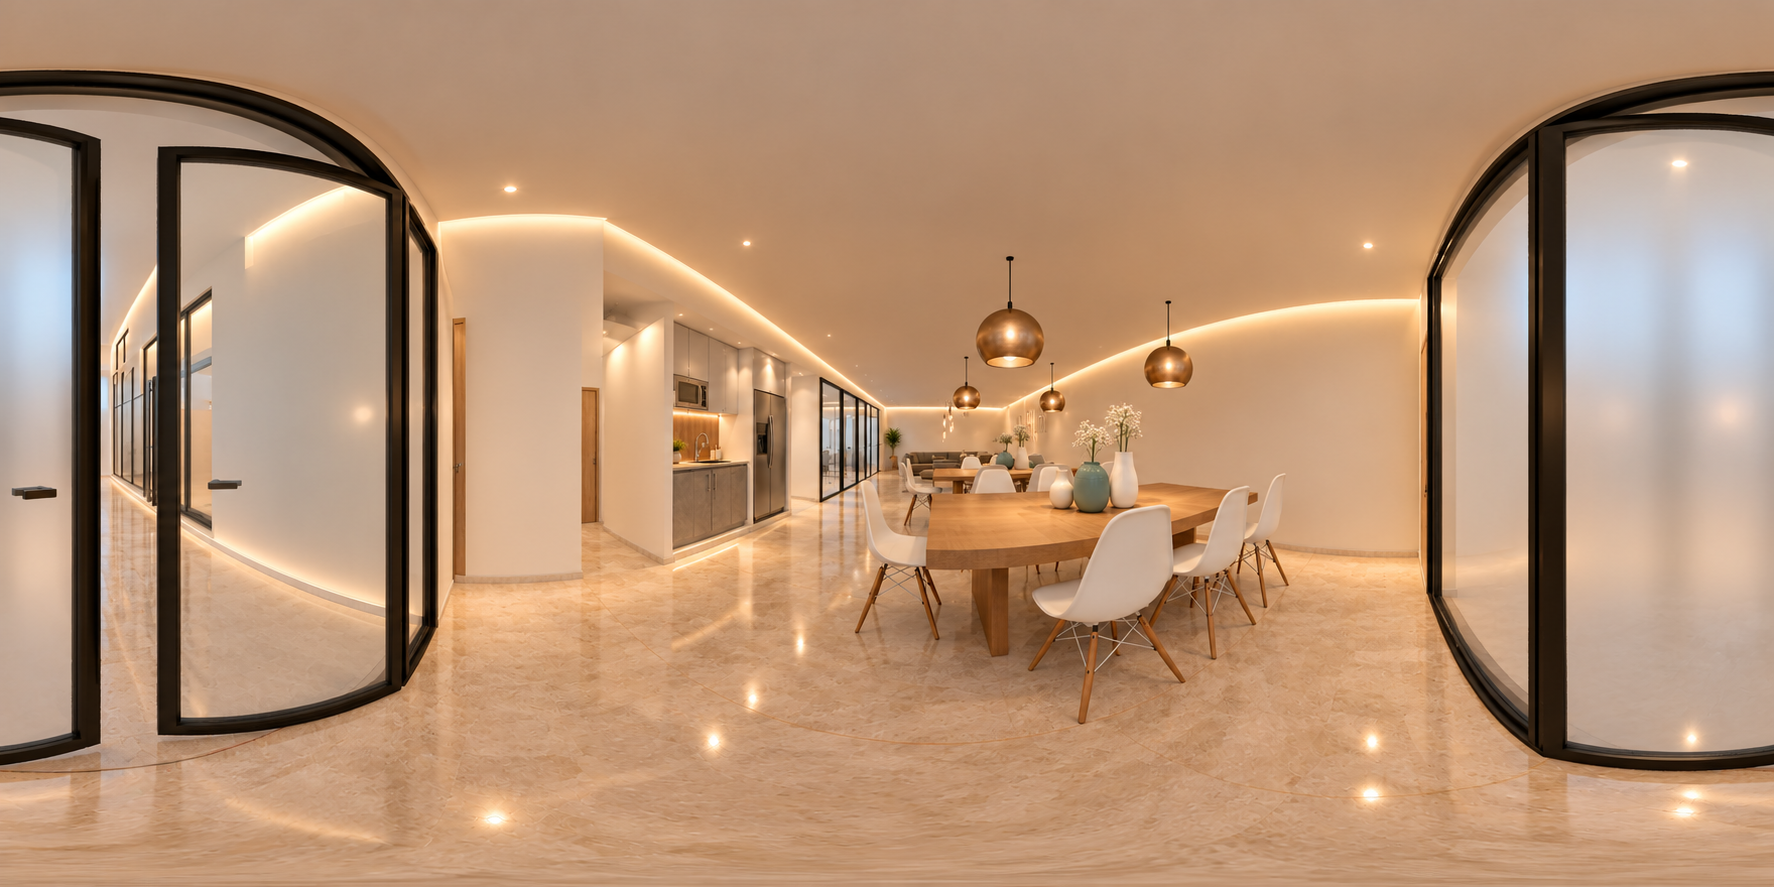
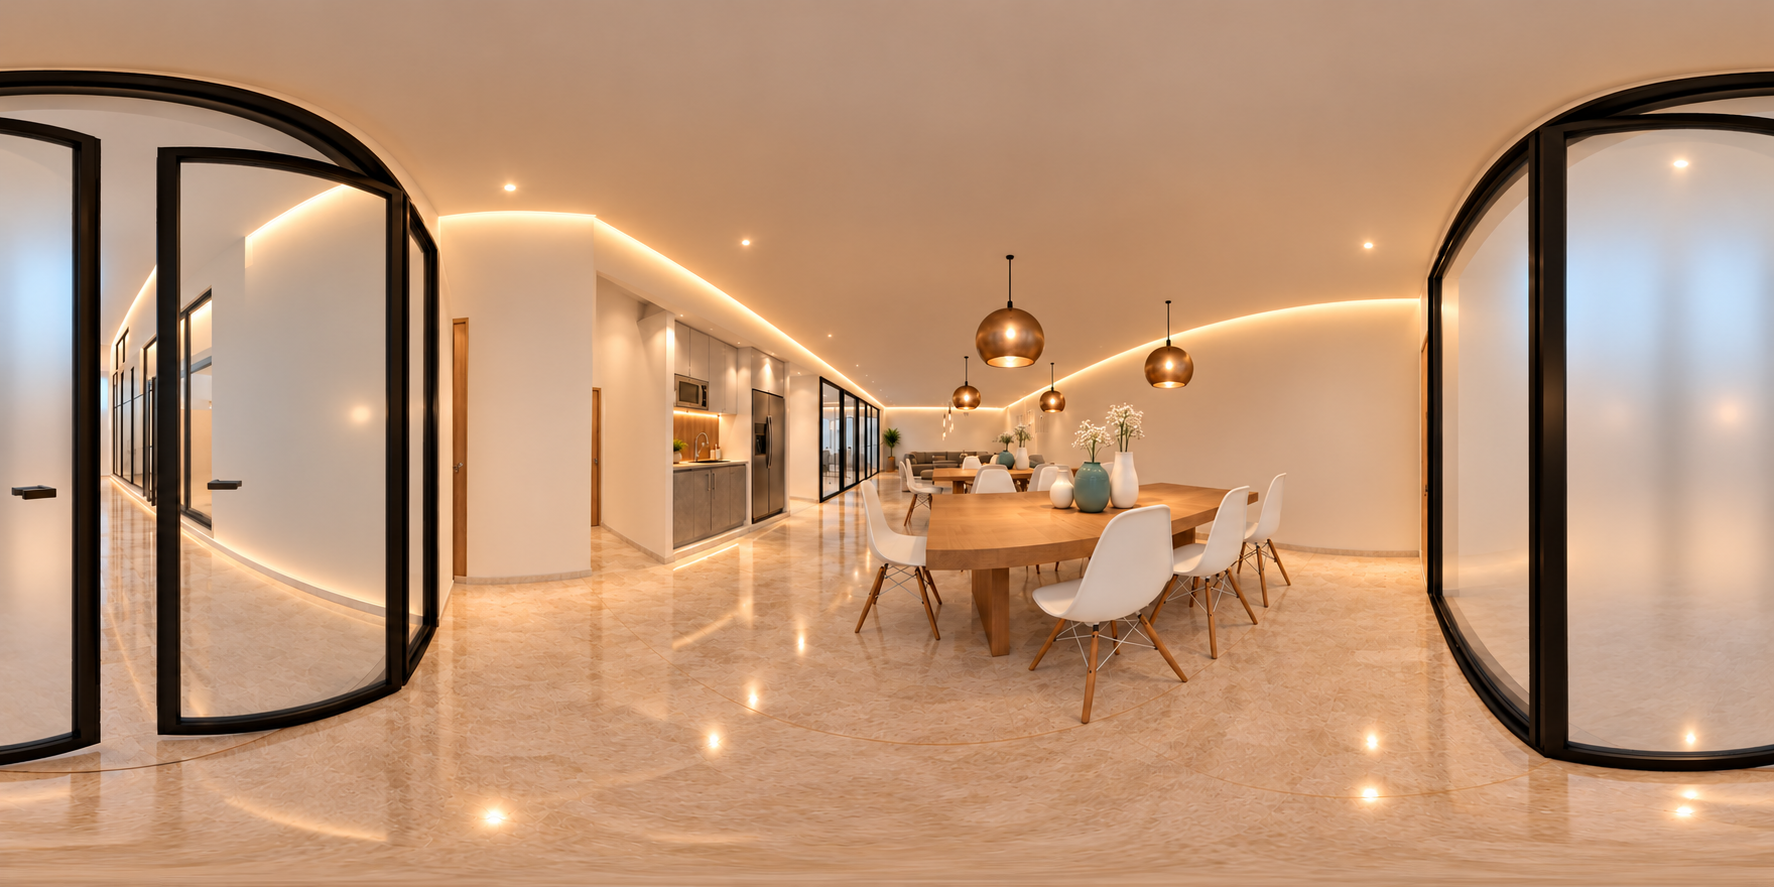
correction

diff --git a/viewer.html b/viewer.html
@@ -1,6 +1,6 @@
 <!doctype html><html lang="fr"><head><meta charset="utf-8"><meta name="viewport" content="width=device-width,initial-scale=1"><title>Parcours — Hatem Ellouze</title><style>
 *{box-sizing:border-box}body{margin:0;background:#151612;color:#fff;font:14px system-ui,sans-serif}button{font:inherit;color:inherit;cursor:pointer}button:focus-visible,canvas:focus-visible{outline:3px solid #e8c89d;outline-offset:4px}#tour{position:relative;height:100dvh;min-height:420px;overflow:hidden}canvas{display:block;width:100%;height:100%;touch-action:none;cursor:grab;transition:opacity .22s}canvas:active{cursor:grabbing}header{position:absolute;inset:0 0 auto;padding:26px 30px 65px;background:linear-gradient(#0009,transparent);pointer-events:none;display:flex;justify-content:space-between;gap:20px}.eyebrow{font-size:10px;letter-spacing:3px;text-transform:uppercase;opacity:.85}h1{font:normal clamp(23px,3vw,37px) Georgia,serif;margin:9px 0 5px}#level{font-size:12px;opacity:.8}#count{font-size:13px;letter-spacing:2px;padding-top:7px}.glass{border:1px solid #ffffff30;background:#22241ee6;backdrop-filter:blur(15px);border-radius:24px;padding:11px 17px}.glass:hover{background:#454336}#toolbar{position:absolute;bottom:22px;left:15px;right:15px;display:flex;justify-content:center;flex-wrap:wrap;gap:7px}#hint{position:absolute;bottom:82px;left:15px;right:15px;text-align:center;font-size:12px;text-shadow:0 1px 6px #000;pointer-events:none}#status{position:absolute;left:50%;top:50%;transform:translate(-50%,-50%);background:#20211cdd;padding:18px 24px;border-radius:14px;z-index:9;text-align:center}#spots{position:absolute;inset:0;pointer-events:none}.spot{position:absolute;transform:translate(-50%,-50%);border:0;background:transparent;pointer-events:auto;display:flex;flex-direction:column;align-items:center;gap:6px;white-space:nowrap;padding:8px;filter:drop-shadow(0 2px 5px #0009)}.spot[hidden]{display:none}.spot b{display:grid;place-items:center;width:44px;height:44px;border-radius:50%;border:2px solid #fff;background:#fcf4dfed;color:#443a28;font-size:23px;box-shadow:0 0 0 7px #ffffff25;transition:transform .15s}.spot:hover b{transform:scale(1.13);background:#fff}.spot span{background:#24271de6;border:1px solid #ffffff30;padding:6px 10px;border-radius:16px;font-size:12px}.drawer{position:absolute;inset:0;background:#141710f5;z-index:20;padding:25px;overflow:auto}.drawer[hidden]{display:none}.drawer-top{display:flex;align-items:center;justify-content:space-between;gap:20px;margin-bottom:24px}.drawer h2{font:normal 30px Georgia;margin:0}.grid{display:grid;grid-template-columns:repeat(auto-fit,minmax(230px,1fr));gap:16px;max-width:1300px;margin:auto}.card{text-align:left;border:1px solid #ffffff22;background:#24271f;border-radius:14px;padding:0;overflow:hidden}.card img{display:block;width:100%;height:145px;object-fit:cover}.card .caption{display:block;padding:14px}.card strong{display:block;font-weight:500;font-size:16px}.card small{display:block;margin-top:5px;opacity:.65}.card[aria-current=true]{border-color:#e1bd84}.gallery-grid img{height:300px;object-fit:contain;background:#ecebe4}.gallery-grid{grid-template-columns:repeat(auto-fit,minmax(280px,1fr))}#lightbox{z-index:30;display:flex;flex-direction:column;align-items:center;justify-content:center;gap:12px}#lightbox[hidden]{display:none}#large{max-width:100%;max-height:82vh;object-fit:contain}#closeImage{position:absolute;right:20px;top:20px}#helpText{line-height:1.8;max-width:620px;margin:50px auto;font-size:17px}#editorInfo{display:none;position:absolute;top:135px;left:20px;z-index:12;background:#222e;padding:12px;border-radius:12px;max-width:300px}#editorInfo input{width:100%;padding:8px;margin-top:6px}.small{font-size:12px;opacity:.7}@media(max-width:600px){header{padding:22px 18px 60px}#toolbar{bottom:12px;gap:5px}.glass{padding:10px 12px;font-size:12px}#hint{bottom:108px;font-size:11px}#count{display:none}.spot span{max-width:135px;white-space:normal}.drawer{padding:18px}.grid{grid-template-columns:1fr 1fr;gap:10px}.card img{height:105px}.card .caption{padding:10px}.card strong{font-size:13px}.gallery-grid{grid-template-columns:1fr}.gallery-grid img{height:270px}}
-</style></head><body><main id="tour"><canvas id="view" tabindex="0" aria-label="Vue panoramique : faites glisser pour regarder autour de vous. Flèches du clavier pour tourner."></canvas><div id="spots"></div><header><div><div class="eyebrow">Hatem Ellouze · Architecture</div><h1 id="sceneTitle"></h1><div id="level"></div></div><div id="count"></div></header><div id="status" role="status" aria-live="polite">Préparation de la visite…</div><div id="hint">Faites glisser pour regarder · Cliquez sur les repères pour avancer</div><nav id="toolbar" aria-label="Commandes de visite"><button class="glass" id="back" aria-label="Revenir au point précédent">↶ Retour</button><button class="glass" id="spaces">Espaces</button><button class="glass" id="gallery">Axonométries</button><button class="glass" id="home">Recentrer</button><button class="glass" id="minus" aria-label="Dézoomer">−</button><button class="glass" id="plus" aria-label="Zoomer">+</button><button class="glass" id="full">Plein écran</button><button class="glass" id="help" aria-label="Aide">?</button></nav><div id="editorInfo">Placez la destination au centre de l’image, puis copiez ces coordonnées dans l’administration.<input id="coords" readonly aria-label="Coordonnées du centre de la vue"></div><section id="spacesPanel" class="drawer" hidden><div class="drawer-top"><h2>Les espaces</h2><button class="glass" data-close>Revenir à la visite ×</button></div><div id="sceneGrid" class="grid"></div></section><section id="galleryPanel" class="drawer" hidden><div class="drawer-top"><h2>Le projet en axonométrie</h2><button class="glass" data-close>Revenir à la visite ×</button></div><div id="galleryGrid" class="grid gallery-grid"></div></section><section id="helpPanel" class="drawer" hidden><div class="drawer-top"><h2>Explorer le projet</h2><button class="glass" data-close>Fermer ×</button></div><div id="helpText"><p>Faites glisser l’image avec la souris ou le doigt pour regarder à 360°. La molette et les boutons + / − permettent de zoomer.</p><p>Cliquez sur les repères ronds dans l’espace pour rejoindre le point de vue indiqué. Chaque point ouvre un panorama complet.</p><p>« Espaces » donne accès à tous les lieux. « Retour » vous ramène au point précédent. Les axonométries s’ouvrent en images, sans interrompre votre parcours.</p><p class="small">Au clavier : flèches pour regarder, Tab et Entrée pour activer les commandes, Échap pour fermer les panneaux.</p></div></section><section id="lightbox" class="drawer" hidden><button id="closeImage" class="glass">Fermer ×</button><img id="large" alt=""><div id="largeTitle"></div></section></main><script>
+#detailPanel{display:flex;flex-direction:column;gap:16px}#detailPanel[hidden]{display:none}#detailScroll{flex:1;min-height:0;overflow:auto;background:#10120e;text-align:center}#detailImage{max-width:100%;max-height:100%;object-fit:contain;display:block;margin:auto}#detailImage.native{max-width:none;max-height:none}.detailTools{display:flex;flex-wrap:wrap;gap:8px;align-items:center;justify-content:space-between}</style></head><body><main id="tour"><canvas id="view" tabindex="0" aria-label="Vue panoramique : faites glisser pour regarder autour de vous. Flèches du clavier pour tourner."></canvas><div id="spots"></div><header><div><div class="eyebrow">Hatem Ellouze · Architecture</div><h1 id="sceneTitle"></h1><div id="level"></div></div><div id="count"></div></header><div id="status" role="status" aria-live="polite">Préparation de la visite…</div><div id="hint">Faites glisser pour regarder · Cliquez sur les repères pour avancer</div><nav id="toolbar" aria-label="Commandes de visite"><button class="glass" id="back" aria-label="Revenir au point précédent">↶ Retour</button><button class="glass" id="spaces">Espaces</button><button class="glass" id="gallery">Axonométries</button><button class="glass" id="detail">Rendu détaillé</button><button class="glass" id="home">Recentrer</button><button class="glass" id="minus" aria-label="Dézoomer">−</button><button class="glass" id="plus" aria-label="Zoomer">+</button><button class="glass" id="full">Plein écran</button><button class="glass" id="help" aria-label="Aide">?</button></nav><div id="editorInfo">Placez la destination au centre de l’image, puis copiez ces coordonnées dans l’administration.<input id="coords" readonly aria-label="Coordonnées du centre de la vue"></div><section id="spacesPanel" class="drawer" hidden><div class="drawer-top"><h2>Les espaces</h2><button class="glass" data-close>Revenir à la visite ×</button></div><div id="sceneGrid" class="grid"></div></section><section id="galleryPanel" class="drawer" hidden><div class="drawer-top"><h2>Le projet en axonométrie</h2><button class="glass" data-close>Revenir à la visite ×</button></div><div id="galleryGrid" class="grid gallery-grid"></div></section><section id="helpPanel" class="drawer" hidden><div class="drawer-top"><h2>Explorer le projet</h2><button class="glass" data-close>Fermer ×</button></div><div id="helpText"><p>Faites glisser l’image avec la souris ou le doigt pour regarder à 360°. La molette et les boutons + / − permettent de zoomer.</p><p>Cliquez sur les repères ronds dans l’espace pour rejoindre le point de vue indiqué. Chaque point ouvre un panorama complet.</p><p>« Espaces » donne accès à tous les lieux. « Retour » vous ramène au point précédent. Les axonométries s’ouvrent en images, sans interrompre votre parcours.</p><p class="small">Au clavier : flèches pour regarder, Tab et Entrée pour activer les commandes, Échap pour fermer les panneaux.</p></div></section><section id="lightbox" class="drawer" hidden><button id="closeImage" class="glass">Fermer ×</button><img id="large" alt=""><div id="largeTitle"></div></section><section id="detailPanel" class="drawer" hidden><div class="detailTools"><div><h2 id="detailTitle">Rendu détaillé</h2><p class="small">Vue fixe · référence fournie</p></div><button id="nativeSize" class="glass">Taille réelle</button><button class="glass" data-close>Revenir au panorama ×</button></div><div id="detailScroll"><img id="detailImage" alt=""></div></section></main><script>
 'use strict';
 const DATA=__PAYLOAD__;
 const $=id=>document.getElementById(id),canvas=$('view'),gl=canvas.getContext('webgl',{antialias:true,alpha:false});
@@ -22,7 +22,7 @@ const program=gl.createProgram();gl.attachShader(program,shader(gl.VERTEX_SHADER
 const buf=gl.createBuffer();gl.bindBuffer(gl.ARRAY_BUFFER,buf);gl.bufferData(gl.ARRAY_BUFFER,new Float32Array([-1,-1,1,-1,-1,1,-1,1,1,-1,1,1]),gl.STATIC_DRAW);let loc=gl.getAttribLocation(program,'p');gl.enableVertexAttribArray(loc);gl.vertexAttribPointer(loc,2,gl.FLOAT,false,0,0);
 const uni=Object.fromEntries(['yaw','pitch','fov','aspect'].map(n=>[n,gl.getUniformLocation(program,n)])),tex=gl.createTexture();gl.bindTexture(gl.TEXTURE_2D,tex);gl.texParameteri(gl.TEXTURE_2D,gl.TEXTURE_WRAP_S,gl.CLAMP_TO_EDGE);gl.texParameteri(gl.TEXTURE_2D,gl.TEXTURE_WRAP_T,gl.CLAMP_TO_EDGE);gl.texParameteri(gl.TEXTURE_2D,gl.TEXTURE_MIN_FILTER,gl.LINEAR);gl.texParameteri(gl.TEXTURE_2D,gl.TEXTURE_MAG_FILTER,gl.LINEAR);
 draw=()=>{if(!ready)return;const r=Math.min(devicePixelRatio||1,2),w=Math.max(1,Math.round(canvas.clientWidth*r)),h=Math.max(1,Math.round(canvas.clientHeight*r));if(canvas.width!==w||canvas.height!==h){canvas.width=w;canvas.height=h;gl.viewport(0,0,w,h)}pitch=clamp(pitch,-1.45,1.45);fov=clamp(fov,42,100);gl.uniform1f(uni.yaw,yaw);gl.uniform1f(uni.pitch,pitch);gl.uniform1f(uni.fov,fov*Math.PI/180);gl.uniform1f(uni.aspect,w/h);gl.drawArrays(gl.TRIANGLES,0,6);updateSpots()};
-async function go(id,record=true,keepHeading=false){const next=scenes.get(id);if(!next)return;const token=++loadToken,previous=current,view={yaw,pitch,fov};ready=false;updateSpots();canvas.style.opacity='.2';$('status').hidden=false;$('status').textContent='Vers '+next.title+'…';try{const im=await image(next.src);if(token!==loadToken)return;if(im.width>gl.getParameter(gl.MAX_TEXTURE_SIZE)||im.height>gl.getParameter(gl.MAX_TEXTURE_SIZE))throw Error('Image trop grande pour cet appareil.');gl.texImage2D(gl.TEXTURE_2D,0,gl.RGB,gl.RGB,gl.UNSIGNED_BYTE,im);if(record&&previous&&previous.id!==id)history.push({id:previous.id,...view});yaw=keepHeading&&previous?view.yaw+(previous.heading||0)-(next.heading||0):(next.yaw||0);pitch=0;fov=72;current=next;ready=true;$('sceneTitle').textContent=next.title;$('level').textContent=next.level;$('count').textContent=String(DATA.scenes.indexOf(next)+1).padStart(2,'0')+' / '+String(DATA.scenes.length).padStart(2,'0');$('spots').replaceChildren();spotEls=[];(next.links||[]).forEach(spot=>{if(!scenes.has(spot.to))return;const el=document.createElement('button');el.className='spot';el.innerHTML='<b aria-hidden="true">'+(spot.kind==='up'?'↗':spot.kind==='down'?'↘':'↑')+'</b><span></span>';el.querySelector('span').textContent=spot.label||scenes.get(spot.to).title;el.setAttribute('aria-label','Aller vers '+(spot.label||scenes.get(spot.to).title));el.onclick=()=>go(spot.to,true,true);$('spots').append(el);spotEls.push({el,spot})});document.querySelectorAll('#sceneGrid .card').forEach(el=>el.setAttribute('aria-current',el.dataset.id===id));$('back').disabled=!history.length;$('status').hidden=true;canvas.style.opacity='1';draw();(next.links||[]).slice(0,2).forEach(h=>{const s=scenes.get(h.to);if(s)image(s.src).catch(()=>{})})}catch(e){if(token!==loadToken)return;canvas.style.opacity='1';ready=!!current;fail(e.message);draw()}}
+async function go(id,record=true,keepHeading=false){const next=scenes.get(id);if(!next)return;const token=++loadToken,previous=current,view={yaw,pitch,fov};ready=false;updateSpots();canvas.style.opacity='.2';$('status').hidden=false;$('status').textContent='Vers '+next.title+'…';try{const im=await image(next.src);if(token!==loadToken)return;if(im.width>gl.getParameter(gl.MAX_TEXTURE_SIZE)||im.height>gl.getParameter(gl.MAX_TEXTURE_SIZE))throw Error('Image trop grande pour cet appareil.');gl.texImage2D(gl.TEXTURE_2D,0,gl.RGB,gl.RGB,gl.UNSIGNED_BYTE,im);if(record&&previous&&previous.id!==id)history.push({id:previous.id,...view});yaw=keepHeading&&previous?view.yaw+(previous.heading||0)-(next.heading||0):(next.yaw||0);pitch=0;fov=72;current=next;ready=true;$('detail').disabled=!next.detailSrc;$('sceneTitle').textContent=next.title;$('level').textContent=next.level;$('count').textContent=String(DATA.scenes.indexOf(next)+1).padStart(2,'0')+' / '+String(DATA.scenes.length).padStart(2,'0');$('spots').replaceChildren();spotEls=[];(next.links||[]).forEach(spot=>{if(!scenes.has(spot.to))return;const el=document.createElement('button');el.className='spot';el.innerHTML='<b aria-hidden="true">'+(spot.kind==='up'?'↗':spot.kind==='down'?'↘':'↑')+'</b><span></span>';el.querySelector('span').textContent=spot.label||scenes.get(spot.to).title;el.setAttribute('aria-label','Aller vers '+(spot.label||scenes.get(spot.to).title));el.onclick=()=>go(spot.to,true,true);$('spots').append(el);spotEls.push({el,spot})});document.querySelectorAll('#sceneGrid .card').forEach(el=>el.setAttribute('aria-current',el.dataset.id===id));$('back').disabled=!history.length;$('status').hidden=true;canvas.style.opacity='1';draw();(next.links||[]).slice(0,2).forEach(h=>{const s=scenes.get(h.to);if(s)image(s.src).catch(()=>{})})}catch(e){if(token!==loadToken)return;canvas.style.opacity='1';ready=!!current;fail(e.message);draw()}}
 window.goScene=go;
 $('back').onclick=async()=>{if(!history.length)return;const prev=history.pop();await go(prev.id,false);yaw=prev.yaw;pitch=prev.pitch;fov=prev.fov;draw()};
 new ResizeObserver(draw).observe(canvas);
@@ -31,6 +31,7 @@ $('home').onclick=()=>{yaw=current?.yaw||0;pitch=0;fov=72;draw()};$('minus').onc
 DATA.scenes.forEach(s=>{const el=document.createElement('button');el.className='card';el.dataset.id=s.id;const im=document.createElement('img');im.src=s.thumb||s.src;im.alt='';im.loading='lazy';const cap=document.createElement('span');cap.className='caption';const name=document.createElement('strong');name.textContent=s.title;const level=document.createElement('small');level.textContent=s.level;cap.append(name,level);el.append(im,cap);el.onclick=()=>{closePanels();go(s.id)};$('sceneGrid').append(el)});
 go(DATA.start||DATA.scenes[0]?.id);
 }catch(e){fail(e.message)}}
+$('detail').onclick=()=>{if(!current?.detailSrc)return;$('detailImage').src=current.detailSrc;$('detailImage').alt=current.title;$('detailTitle').textContent=current.title;$('detailImage').className='';$('nativeSize').textContent='Taille réelle';panel('detailPanel')};$('nativeSize').onclick=()=>{const on=$('detailImage').classList.toggle('native');$('nativeSize').textContent=on?'Adapter à l’écran':'Taille réelle'};
 $('spaces').onclick=()=>panel('spacesPanel');$('gallery').onclick=()=>panel('galleryPanel');$('help').onclick=()=>panel('helpPanel');document.querySelectorAll('[data-close]').forEach(el=>el.onclick=closePanels);$('closeImage').onclick=()=>{$('lightbox').hidden=true;$('galleryPanel').querySelector('button')?.focus()};
 (DATA.gallery||[]).forEach(g=>{const el=document.createElement('button');el.className='card';const im=document.createElement('img');im.src=g.src;im.alt=g.title;im.loading='lazy';const cap=document.createElement('span');cap.className='caption';cap.textContent=g.title;el.append(im,cap);el.onclick=()=>{$('large').src=g.src;$('large').alt=g.title;$('largeTitle').textContent=g.title;panel('lightbox')};$('galleryGrid').append(el)});
 $('full').onclick=async()=>{try{if(document.fullscreenElement)await document.exitFullscreen();else if($('tour').requestFullscreen)await $('tour').requestFullscreen();else $('hint').textContent='Pour agrandir : utilisez le mode plein écran de votre navigateur.'}catch(e){$('hint').textContent='Utilisez le mode plein écran de votre navigateur.'}};

diff --git a/pack.py b/pack.py
@@ -10,6 +10,7 @@ def payload(project,root,editor=False,start=None):
         return 'data:'+ (mimetypes.guess_type(f.name)[0] or 'image/jpeg')+';base64,'+base64.b64encode(f.read_bytes()).decode()
     for s in p['scenes']:
         s['src']=src(s['image'])
+        if s.get('detail_image'):s['detailSrc']=src(s['detail_image'])
         if s.get('thumbnail'):s['thumb']=src(s['thumbnail'])
     for g in p.get('gallery',[]):g['src']=src(g['image'])
     p['editor']=editor

diff --git a/LISEZ_MOI.md b/LISEZ_MOI.md
@@ -1,6 +1,6 @@
 # Parcours — Hatem Ellouze
 
-Neuf panoramas réalistes, seize passages cliquables et deux axonométries fixes. Le départ est le hall validé, avec le meuble sous l’escalier.
+Neuf panoramas réalistes, seize passages cliquables et deux axonométries fixes. Le départ est l’accueil.
 
 ## Ouvrir la visite immédiatement
 
@@ -66,3 +66,11 @@ python pack.py Visite_interactive_Hatem.html
 ```
 
 Le HTML ne contient ni sources SketchUp ni mot de passe administrateur.
+
+## Mise à jour du 19 octobre
+
+Le raccord de plafond signalé au-dessus de la cuisine a été retouché. Le bouton « Rendu détaillé » de chaque scène ouvre le rendu de référence fourni, en image fixe, avec affichage à taille réelle. Cela permet de consulter davantage de détails sur un angle donné, sans modifier la navigation 360°.
+
+Les panoramas restent en 1774 × 887 pixels : la retouche n’a pas fourni de résolution native supérieure. Le flou au fort zoom 360° n’est donc pas résolu. Les vues détaillées ne sont pas de nouveaux panoramas haute résolution.
+
+Pour installer la mise à jour, remplacer app.py, pack.py, viewer.html et le dossier data/ complet dans le dépôt. Les secrets administrateur restent dans Streamlit.

diff --git a/RENDU.md b/RENDU.md
@@ -16,3 +16,5 @@ Compléments de chaque demande :
 - Café à l’étage : conserver café, photocopieur, traceur, portes et vitrages ; meubler le bureau derrière la paroi vitrée droite.
 
 Les panoramas PNG sont les sorties originales, sans recadrage après génération. Les axonométries sont les images fournies (la vue générale reprend sa copie JPEG déjà intégrée à la première application).
+
+Retouche du 19 octobre — outil intégré imagegen : corriger le raccord incohérent au-dessus de la kitchenette en utilisant le panorama SketchUp comme référence géométrique, conserver les portes, vitrages, passages, mobilier et projection sphérique ; demander une sortie 3840 × 1920 nette et raccordable. La sortie réelle est 1774 × 887 ; elle est intégrée sans agrandissement artificiel.
